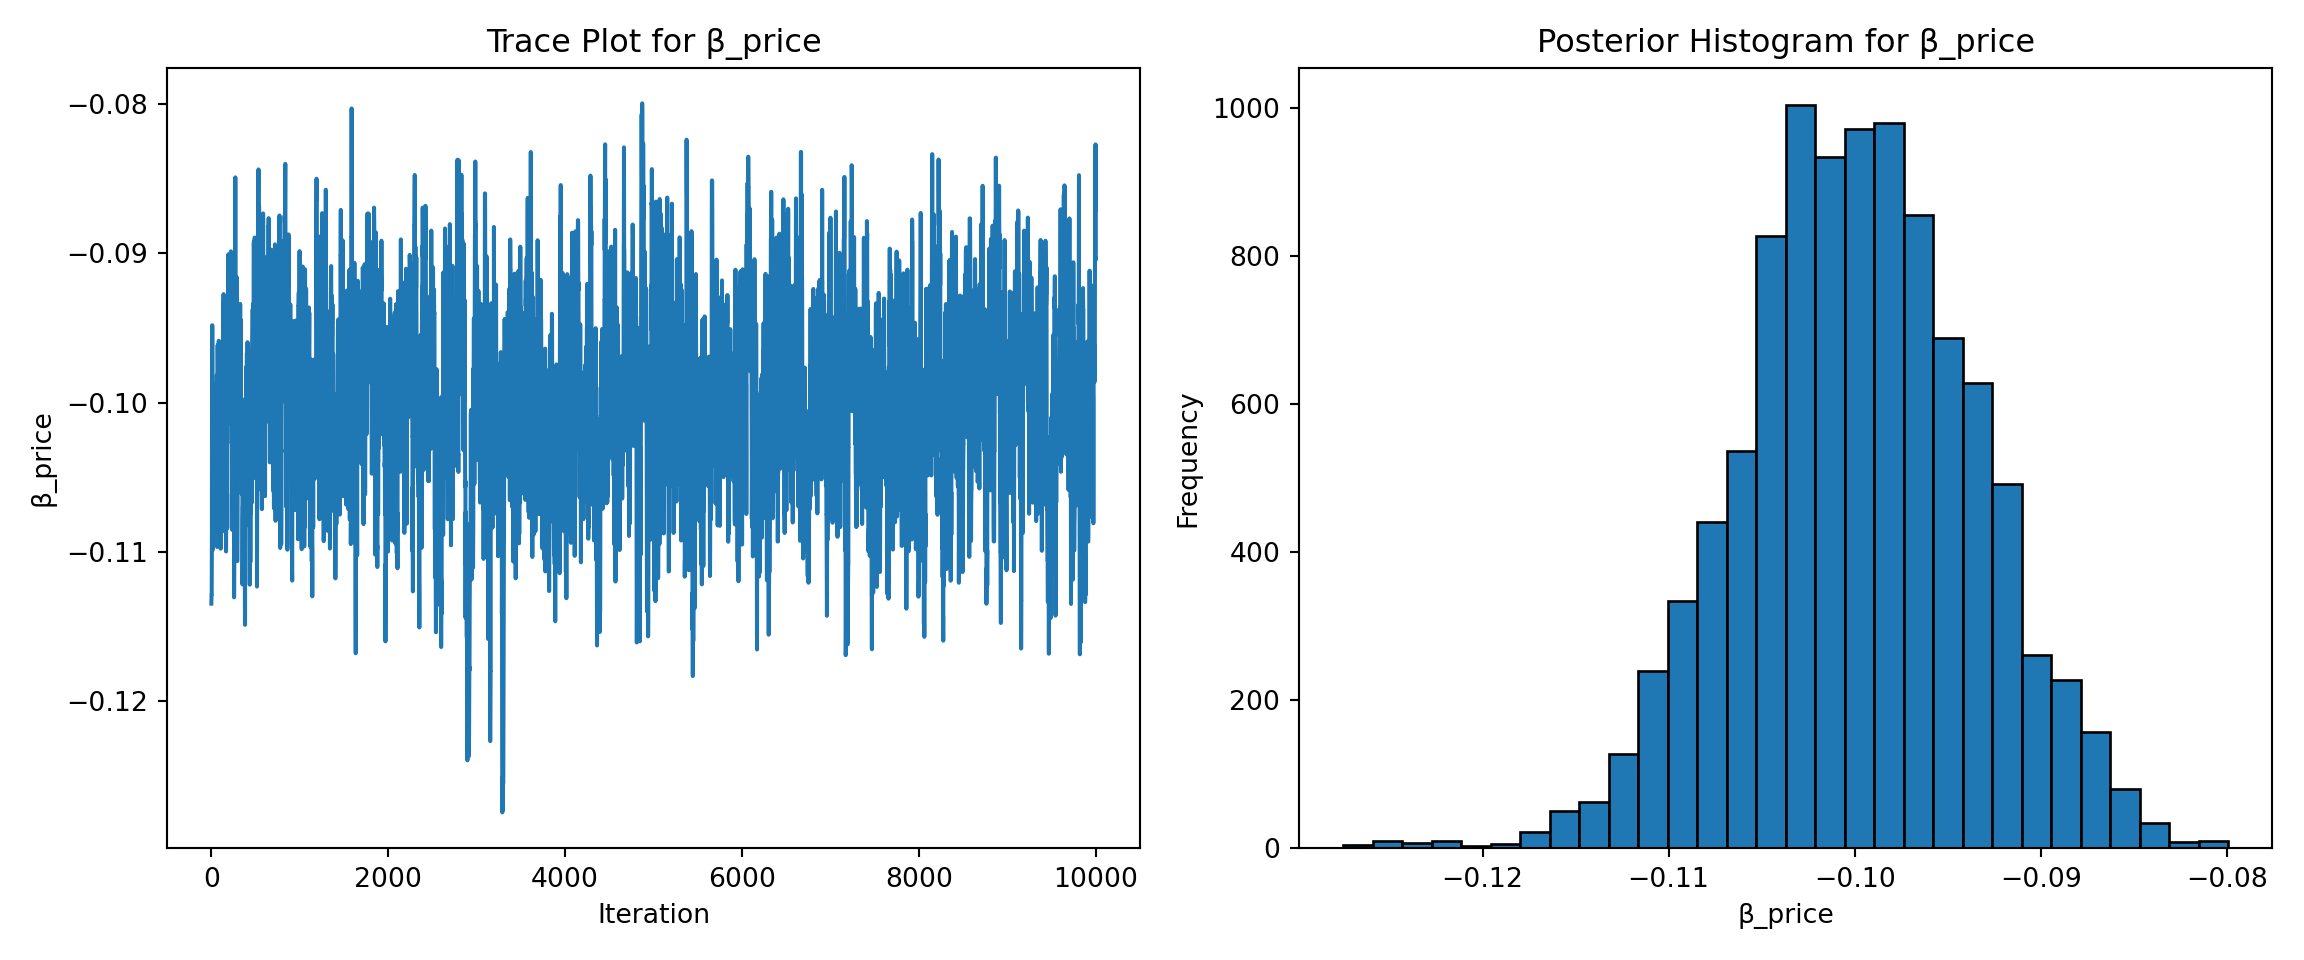
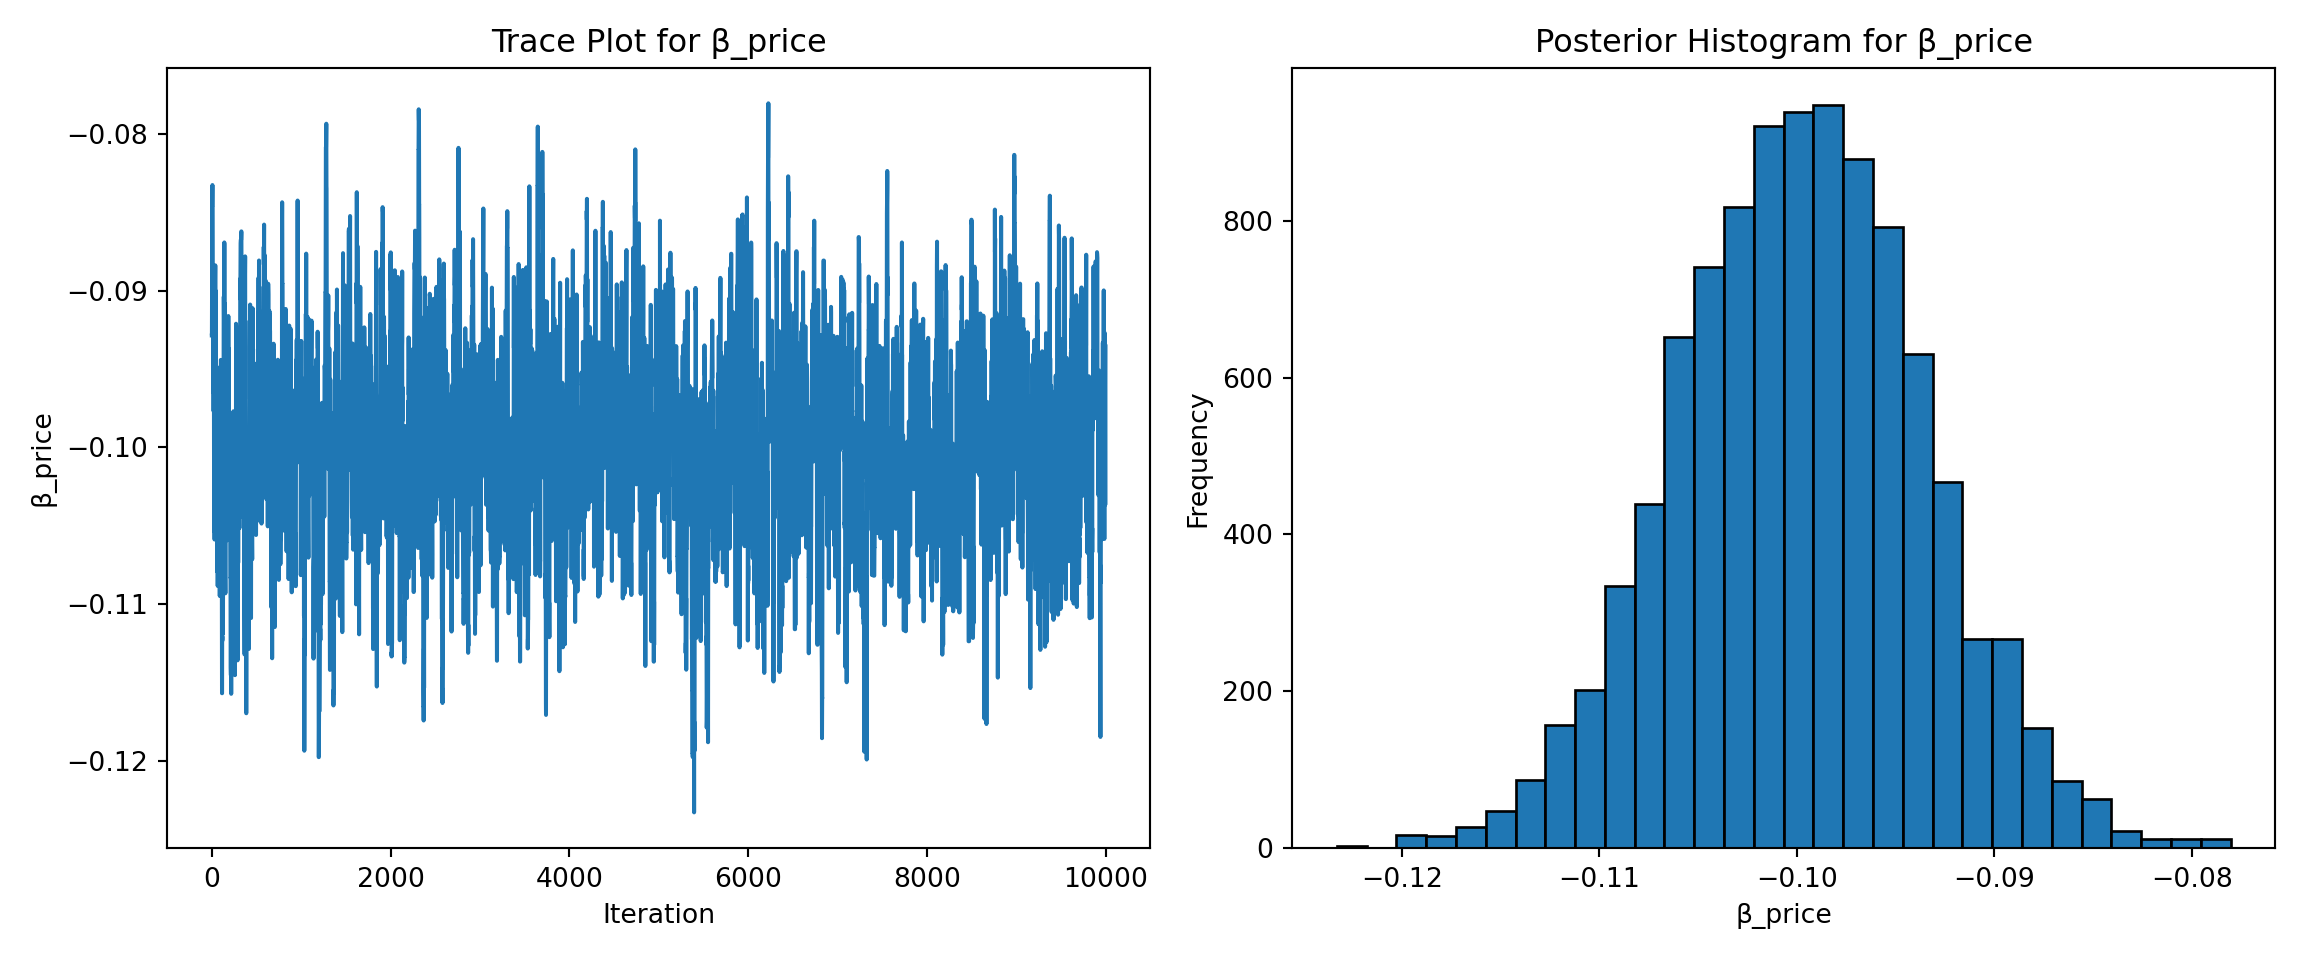
hw3_v1

diff --git a/docs/projects/hw3/hw3_questions.html b/docs/projects/hw3/hw3_questions.html
@@ -476,7 +476,7 @@ price      -0.099480    0.006301       -0.111831       -0.087130</code></pre>
 <span id="cb11-2"><a href="#cb11-2" aria-hidden="true" tabindex="-1"></a><span class="im">import</span> pandas <span class="im">as</span> pd</span>
 <span id="cb11-3"><a href="#cb11-3" aria-hidden="true" tabindex="-1"></a><span class="im">import</span> matplotlib.pyplot <span class="im">as</span> plt</span></code><button title="Copy to Clipboard" class="code-copy-button"><i class="bi"></i></button></pre></div>
 <div class="cell-output cell-output-stdout">
-<pre><code>Matplotlib created a temporary cache directory at /tmp/matplotlib-esic1q94 because the default path (/home/jovyan/.config/matplotlib) is not a writable directory; it is highly recommended to set the MPLCONFIGDIR environment variable to a writable directory, in particular to speed up the import of Matplotlib and to better support multiprocessing.</code></pre>
+<pre><code>Matplotlib created a temporary cache directory at /tmp/matplotlib-h2x17enf because the default path (/home/jovyan/.config/matplotlib) is not a writable directory; it is highly recommended to set the MPLCONFIGDIR environment variable to a writable directory, in particular to speed up the import of Matplotlib and to better support multiprocessing.</code></pre>
 </div>
 <div class="sourceCode cell-code" id="cb13"><pre class="sourceCode python code-with-copy"><code class="sourceCode python"><span id="cb13-1"><a href="#cb13-1" aria-hidden="true" tabindex="-1"></a><span class="co"># Ensure numeric stability and float64 types</span></span>
 <span id="cb13-2"><a href="#cb13-2" aria-hidden="true" tabindex="-1"></a>X <span class="op">=</span> X.astype(np.float64)</span>
@@ -550,10 +550,10 @@ price      -0.099480    0.006301       -0.111831       -0.087130</code></pre>
 <span id="cb13-70"><a href="#cb13-70" aria-hidden="true" tabindex="-1"></a><span class="bu">print</span>(posterior_summary)</span></code><button title="Copy to Clipboard" class="code-copy-button"><i class="bi"></i></button></pre></div>
 <div class="cell-output cell-output-stdout">
 <pre><code>         Posterior Mean  Posterior Std  95% CI Lower  95% CI Upper
-brand_N        0.951123       0.109044      0.739863      1.163596
-brand_P        0.510418       0.105271      0.305070      0.716997
-ad_Yes        -0.728955       0.086608     -0.896625     -0.554716
-price         -0.099892       0.006327     -0.111950     -0.087650</code></pre>
+brand_N        0.933656       0.113566      0.719171      1.171390
+brand_P        0.491293       0.114663      0.281182      0.724208
+ad_Yes        -0.730734       0.086280     -0.905841     -0.562095
+price         -0.099849       0.006241     -0.112272     -0.087599</code></pre>
 </div>
 <div class="sourceCode cell-code" id="cb15"><pre class="sourceCode python code-with-copy"><code class="sourceCode python"><span id="cb15-1"><a href="#cb15-1" aria-hidden="true" tabindex="-1"></a><span class="co"># Plot for price parameter (index 3)</span></span>
 <span id="cb15-2"><a href="#cb15-2" aria-hidden="true" tabindex="-1"></a>plt.figure(figsize<span class="op">=</span>(<span class="dv">12</span>, <span class="dv">5</span>))</span>

diff --git a/docs/projects.html b/docs/projects.html
@@ -242,7 +242,7 @@ window.Quarto = {
 
 </div>
 
-<div class="quarto-post image-right" data-index="1" data-listing-date-sort="1748070000000" data-listing-file-modified-sort="1748128342499" data-listing-date-modified-sort="NaN" data-listing-reading-time-sort="12" data-listing-word-count-sort="2295">
+<div class="quarto-post image-right" data-index="1" data-listing-date-sort="1748070000000" data-listing-file-modified-sort="1748128417078" data-listing-date-modified-sort="NaN" data-listing-reading-time-sort="12" data-listing-word-count-sort="2295">
 
 <div class="thumbnail">
 <a href="./projects/hw3/hw3_questions.html" class="no-external">
